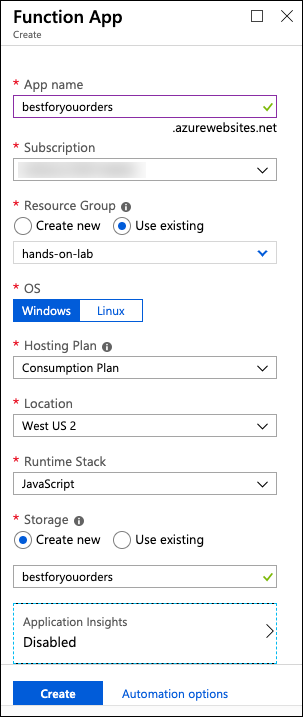
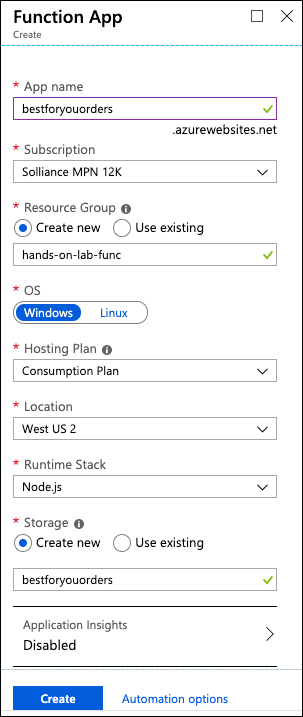
Fix for issue #22.

diff --git a/Hands-on lab/HOL step-by step - OSS PaaS and DevOps.md b/Hands-on lab/HOL step-by step - OSS PaaS and DevOps.md
@@ -24,53 +24,53 @@ Microsoft and the trademarks listed at <https://www.microsoft.com/en-us/legal/in
 
 **Contents**
 
-- [OSS PaaS and DevOps hands-on lab step-by-step](#oss-paas-and-devops-hands-on-lab-step-by-step)
-  - [Abstract and learning objectives](#abstract-and-learning-objectives)
-  - [Overview](#overview)
-  - [Solution architecture](#solution-architecture)
-  - [Requirements](#requirements)
-  - [Exercise 1: Run starter application](#exercise-1-run-starter-application)
-    - [Task 1: Connect to your Lab VM](#task-1-connect-to-your-lab-vm)
-    - [Task 2: Grant permissions to Docker](#task-2-grant-permissions-to-docker)
-    - [Task 3: Integrate GitHub into VS Code](#task-3-integrate-github-into-vs-code)
-    - [Task 4: Clone the starter application](#task-4-clone-the-starter-application)
-    - [Task 5: Launch the starter application](#task-5-launch-the-starter-application)
-  - [Exercise 2: Migrate the database to Cosmos DB](#exercise-2-migrate-the-database-to-cosmos-db)
-    - [Task 1: Provision Cosmos DB using the MongoDB API](#task-1-provision-cosmos-db-using-the-mongodb-api)
-    - [Task 2: Create and scale collections](#task-2-create-and-scale-collections)
-    - [Task 3: Update database connection string](#task-3-update-database-connection-string)
-    - [Task 4: Import data to the API for MongoDB using mongoimport](#task-4-import-data-to-the-api-for-mongodb-using-mongoimport)
-    - [Task 5: Install Azure Cosmos DB extension for VS Code](#task-5-install-azure-cosmos-db-extension-for-vs-code)
-    - [Task 6: Decrease collection throughput](#task-6-decrease-collection-throughput)
-  - [Exercise 3: Containerize the app](#exercise-3-containerize-the-app)
-    - [Task 1: Create an Azure Container Registry](#task-1-create-an-azure-container-registry)
-    - [Task 2: Install Docker extension in VS Code](#task-2-install-docker-extension-in-vs-code)
-    - [Task 3: Create Docker image and run the app](#task-3-create-docker-image-and-run-the-app)
-    - [Task 4: Run the containerized app](#task-4-run-the-containerized-app)
-    - [Task 5: Push image to Azure Container Registry](#task-5-push-image-to-azure-container-registry)
-  - [Exercise 4: Set up Web App for Containers](#exercise-4-set-up-web-app-for-containers)
-    - [Task 1: Provision Web App for Containers](#task-1-provision-web-app-for-containers)
-    - [Task 2: Navigate to the deployed app](#task-2-navigate-to-the-deployed-app)
-  - [Exercise 5: Configure CI/CD pipeline](#exercise-5-configure-cicd-pipeline)
-    - [Task 1: Prepare GitHub account for service integrations](#task-1-prepare-github-account-for-service-integrations)
-    - [Task 2: Open connection to Jenkins](#task-2-open-connection-to-jenkins)
-    - [Task 3: Configure Continuous Integration with Jenkins](#task-3-configure-continuous-integration-with-jenkins)
-    - [Task 4: Trigger CI build](#task-4-trigger-ci-build)
-    - [Task 5: Install Docker on the Jenkins VM](#task-5-install-docker-on-the-jenkins-vm)
-    - [Task 6: Add an Azure service principal for Jenkins](#task-6-add-an-azure-service-principal-for-jenkins)
-    - [Task 7: Add continuous delivery to Jenkins build job](#task-7-add-continuous-delivery-to-jenkins-build-job)
-    - [Task 8: Trigger CI-CD pipeline](#task-8-trigger-ci-cd-pipeline)
-  - [Exercise 6: Create Azure Function for order processing](#exercise-6-create-azure-function-for-order-processing)
-    - [Task 1: Provision a Function App](#task-1-provision-a-function-app)
-    - [Task 2: Configure storage queues](#task-2-configure-storage-queues)
-    - [Task 3: Create Cosmos DB trigger function](#task-3-create-cosmos-db-trigger-function)
-    - [Task 4: Create Queue function](#task-4-create-queue-function)
-  - [Exercise 7: Create Logic App for sending email notifications](#exercise-7-create-logic-app-for-sending-email-notifications)
-    - [Task 1: Create SendGrid account](#task-1-create-sendgrid-account)
-    - [Task 2: Create Logic App](#task-2-create-logic-app)
-  - [After the hands-on lab](#after-the-hands-on-lab)
-    - [Task 1: Delete Azure resource groups](#task-1-delete-azure-resource-groups)
-    - [Task 2: Delete WebHooks and Service Integrations](#task-2-delete-webhooks-and-service-integrations)
+- [OSS PaaS and DevOps hands-on lab step-by-step](#OSS-PaaS-and-DevOps-hands-on-lab-step-by-step)
+  - [Abstract and learning objectives](#Abstract-and-learning-objectives)
+  - [Overview](#Overview)
+  - [Solution architecture](#Solution-architecture)
+  - [Requirements](#Requirements)
+  - [Exercise 1: Run starter application](#Exercise-1-Run-starter-application)
+    - [Task 1: Connect to your Lab VM](#Task-1-Connect-to-your-Lab-VM)
+    - [Task 2: Grant permissions to Docker](#Task-2-Grant-permissions-to-Docker)
+    - [Task 3: Integrate GitHub into VS Code](#Task-3-Integrate-GitHub-into-VS-Code)
+    - [Task 4: Clone the starter application](#Task-4-Clone-the-starter-application)
+    - [Task 5: Launch the starter application](#Task-5-Launch-the-starter-application)
+  - [Exercise 2: Migrate the database to Cosmos DB](#Exercise-2-Migrate-the-database-to-Cosmos-DB)
+    - [Task 1: Provision Cosmos DB using the MongoDB API](#Task-1-Provision-Cosmos-DB-using-the-MongoDB-API)
+    - [Task 2: Create and scale collections](#Task-2-Create-and-scale-collections)
+    - [Task 3: Update database connection string](#Task-3-Update-database-connection-string)
+    - [Task 4: Import data to the API for MongoDB using mongoimport](#Task-4-Import-data-to-the-API-for-MongoDB-using-mongoimport)
+    - [Task 5: Install Azure Cosmos DB extension for VS Code](#Task-5-Install-Azure-Cosmos-DB-extension-for-VS-Code)
+    - [Task 6: Decrease collection throughput](#Task-6-Decrease-collection-throughput)
+  - [Exercise 3: Containerize the app](#Exercise-3-Containerize-the-app)
+    - [Task 1: Create an Azure Container Registry](#Task-1-Create-an-Azure-Container-Registry)
+    - [Task 2: Install Docker extension in VS Code](#Task-2-Install-Docker-extension-in-VS-Code)
+    - [Task 3: Create Docker image and run the app](#Task-3-Create-Docker-image-and-run-the-app)
+    - [Task 4: Run the containerized app](#Task-4-Run-the-containerized-app)
+    - [Task 5: Push image to Azure Container Registry](#Task-5-Push-image-to-Azure-Container-Registry)
+  - [Exercise 4: Set up Web App for Containers](#Exercise-4-Set-up-Web-App-for-Containers)
+    - [Task 1: Provision Web App for Containers](#Task-1-Provision-Web-App-for-Containers)
+    - [Task 2: Navigate to the deployed app](#Task-2-Navigate-to-the-deployed-app)
+  - [Exercise 5: Configure CI/CD pipeline](#Exercise-5-Configure-CICD-pipeline)
+    - [Task 1: Prepare GitHub account for service integrations](#Task-1-Prepare-GitHub-account-for-service-integrations)
+    - [Task 2: Open connection to Jenkins](#Task-2-Open-connection-to-Jenkins)
+    - [Task 3: Configure Continuous Integration with Jenkins](#Task-3-Configure-Continuous-Integration-with-Jenkins)
+    - [Task 4: Trigger CI build](#Task-4-Trigger-CI-build)
+    - [Task 5: Install Docker on the Jenkins VM](#Task-5-Install-Docker-on-the-Jenkins-VM)
+    - [Task 6: Add an Azure service principal for Jenkins](#Task-6-Add-an-Azure-service-principal-for-Jenkins)
+    - [Task 7: Add continuous delivery to Jenkins build job](#Task-7-Add-continuous-delivery-to-Jenkins-build-job)
+    - [Task 8: Trigger CI-CD pipeline](#Task-8-Trigger-CI-CD-pipeline)
+  - [Exercise 6: Create Azure Function for order processing](#Exercise-6-Create-Azure-Function-for-order-processing)
+    - [Task 1: Provision a Function App](#Task-1-Provision-a-Function-App)
+    - [Task 2: Configure storage queues](#Task-2-Configure-storage-queues)
+    - [Task 3: Create Cosmos DB trigger function](#Task-3-Create-Cosmos-DB-trigger-function)
+    - [Task 4: Create Queue function](#Task-4-Create-Queue-function)
+  - [Exercise 7: Create Logic App for sending email notifications](#Exercise-7-Create-Logic-App-for-sending-email-notifications)
+    - [Task 1: Create SendGrid account](#Task-1-Create-SendGrid-account)
+    - [Task 2: Create Logic App](#Task-2-Create-Logic-App)
+  - [After the hands-on lab](#After-the-hands-on-lab)
+    - [Task 1: Delete Azure resource groups](#Task-1-Delete-Azure-resource-groups)
+    - [Task 2: Delete WebHooks and Service Integrations](#Task-2-Delete-WebHooks-and-Service-Integrations)
 
 # OSS PaaS and DevOps hands-on lab step-by-step
 
@@ -1400,11 +1400,11 @@ In this task, you will create a Function App in Azure, which will host your Func
 
     - **App name:** Enter a unique name, such as "bestforyouordersSUFFIX".
     - **Subscription:** Select the subscription you are using for this hands-on lab.
-    - **Resource group:** Select **Use existing** and choose the **hands-on-lab-SUFFIX** resource group.
+    - **Resource group:** Choose **Create new** and enter **hands-on-lab-func-SUFFIX** as resource group name.
     - **OS:** Select Windows.
     - **Hosting Plan:** Choose Consumption Plan.
     - **Location:** Select the location you have been using for resources in this hands-on lab.
-    - **Runtime Stack** Select JavaScript.
+    - **Runtime Stack** Select Node.js.
     - **Storage:** Select **Create new** and enter "bestforyouordersSUFFIX" for the name.
     - **Application Insights** Select Disabled.
     - Select **Create** to provision the new Function App.
@@ -1415,7 +1415,7 @@ In this task, you will create a Function App in Azure, which will host your Func
 
 In this task, you will add two storage queues to the storage account provisioned when you created your Function App. These queues will be used to store orders and notifications needing to be processed.
 
-1. In the Azure portal, navigate to the new **bestforyouordersSUFFIX** storage account that was created when you provisioned your Function App, by selecting **Resource groups** from the left-hand menu, selecting your **hands-on-lab-SUFFIX** resource group from the list, and then selecting the **bestforyouordersSUFFIX** storage account.
+1. In the Azure portal, navigate to the new **bestforyouordersSUFFIX** storage account that was created when you provisioned your Function App, by selecting **Resource groups** from the left-hand menu, selecting your **hands-on-lab-func-SUFFIX** resource group from the list, and then selecting the **bestforyouordersSUFFIX** storage account.
 
     ![Resource groups is highlighted in the navigation pane of the Azure portal, and hands-on-labs is selected and highlighted to the right under Resource groups. Overview is selected to the right, and the bestforyouorders storage account row is highlighted on the far right.](media/rg-storage-account.png "Azure Portal")
 
